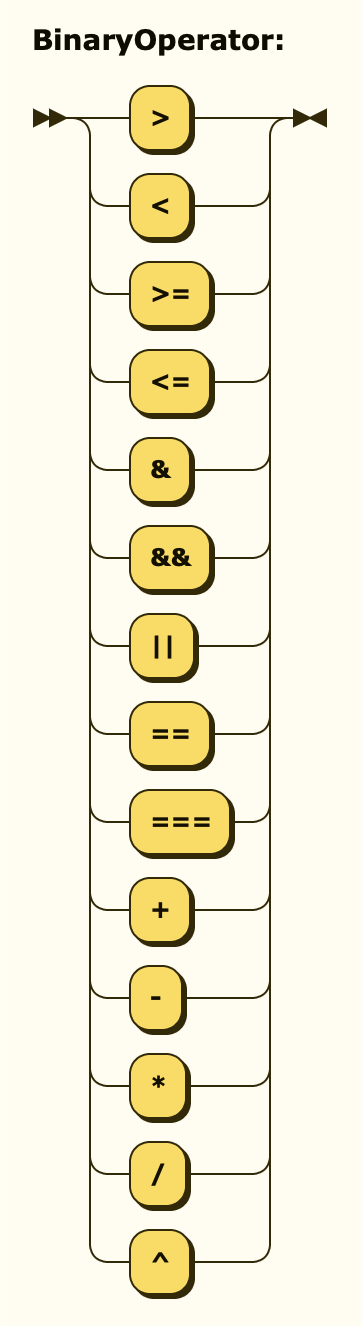
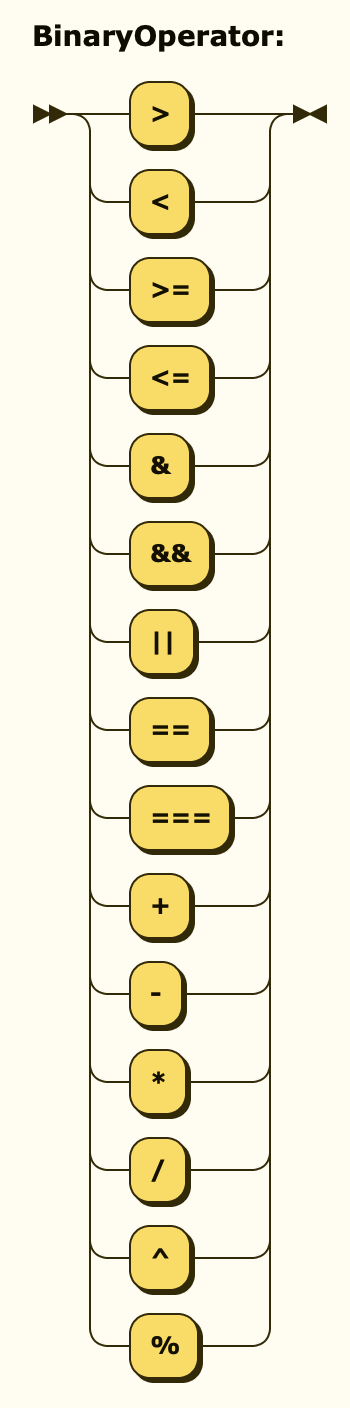
updated readme to add the modulo operator and define precedence

Changed region(s): [[0.0857, 0.0, 0.9429, 0.9894]]

diff --git a/README.md b/README.md
@@ -59,7 +59,7 @@ In order to not have to call functions for simple operations and to improve on r
 some of the most used operators have been implemented:
 
 ```ebnf
-BinaryOperator ::= ">" | "<" | ">=" | "<=" | "&" | "&&" | "||" | "==" | "===" | "+" | "-" | "*" | "/" | "^"
+BinaryOperator ::= ">" | "<" | ">=" | "<=" | "&" | "&&" | "||" | "==" | "===" | "+" | "-" | "*" | "/" | "^" | "%"
 UnaryOperator ::= "!"
 ```
 
@@ -67,23 +67,28 @@ UnaryOperator ::= "!"
 
 ![operator](readme_images/railroad_unary_operator.png)
 
-| Operator     | Example          | Description                                      |
-|--------------|------------------|--------------------------------------------------|
-| \>           | A \> B           | Yields `true` if A is greater than B             |
-| <            | A < B            | Yields `true` if A is less than B                |
-| \>=          | A \>= B          | Yields `true` if A is greater than or equal to B |
-| <=           | A <= B           | Yields `true` if A is less than or equal to B    |
-| +            | A + B            | Yields the sum of A and B                        |
-| -            | A - B            | Yields the difference of A and B                 |
-| *            | A * B            | Yields the product of A and B                    |
-| /            | A / B            | Yields the quotient of A and B                   |
-| ^            | A ^ B            | Yields A to the power of B                       |
-| &            | A & B            | Concatenates the contents of A and B             |
-| &&           | A && B           | Yields `true` if both A and B yield `true`       |
-| &#124;&#124; | A &#124;&#124; B | Yields `true` if either A or B yields `true`     |
-| !            | !A               | Yields the inverse of A                          |
-| ==           | A == B           | Yields `true` if A and B equal ignoring casing   |
-| ===          | A == B           | Yields `true` if A and B equal exactly           |
+The following operator list is sorted by precedence ascending, meaning the first operator
+has highest and the last lowest precedence. Expressions in parenthesis of course remain
+having the highest available precedence to enforce order of evaluation.
+
+| Operator     | Example          | Description                                      | Precedence |
+|--------------|------------------|--------------------------------------------------|------------|
+| ^            | A ^ B            | Yields A to the power of B                       | 1          |
+| *            | A * B            | Yields the product of A and B                    | 2          |
+| /            | A / B            | Yields the quotient of A and B                   | 2          |
+| %            | A % B            | Yields the remainder of dividing A by B          | 2          |
+| +            | A + B            | Yields the sum of A and B                        | 3          |
+| -            | A - B            | Yields the difference of A and B                 | 3          |
+| \>           | A \> B           | Yields `true` if A is greater than B             | 4          |
+| <            | A < B            | Yields `true` if A is less than B                | 4          |
+| \>=          | A \>= B          | Yields `true` if A is greater than or equal to B | 4          |
+| <=           | A <= B           | Yields `true` if A is less than or equal to B    | 4          |
+| ==           | A == B           | Yields `true` if A and B equal ignoring casing   | 4          |
+| ===          | A == B           | Yields `true` if A and B equal exactly           | 4          |
+| !            | !A               | Yields the inverse of A                          | 5          |
+| &&           | A && B           | Yields `true` if both A and B yield `true`       | 6          |
+| &#124;&#124; | A &#124;&#124; B | Yields `true` if either A or B yields `true`     | 7          |
+| &            | A & B            | Concatenates the contents of A and B             | 8          |
 
 A binary operator expects a left- as well as a right-hand side expression, while a unary operator
 just operates on a single right-hand expression.
